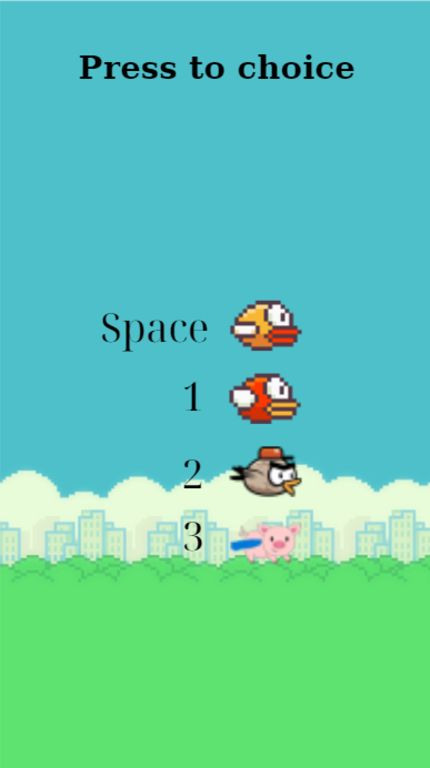
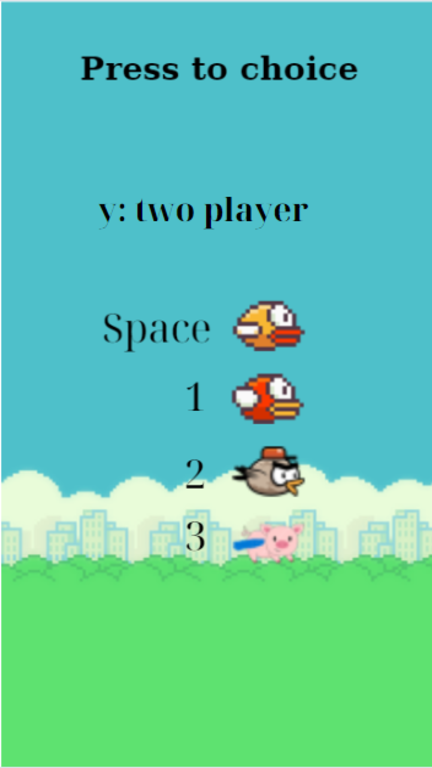
game 2 nguoi

diff --git a/game.py b/game.py
@@ -41,12 +41,13 @@ class Game:
         pygame.display.set_icon(icon)
         self.background = Background()
         self.floor = Floor()
-        self.bird = Bird(0)
+        self.bird = Bird(0, 100)
+        self.bird2 = Bird(0, 500)
         self.score = Score()
         self.pipe = Pipe()
         self.game_over_message = GameOverMessage()
         self.game_stars_message = GameStarsMessage()
-
+        self.two_player = False
     def draw_all(self):
         """
         Vẽ tất cả các phần tử trò chơi bao gồm nền, sàn, chim, điểm số và các ống.
@@ -61,26 +62,19 @@ class Game:
         self.pipe.draw()
         self.floor.draw()
         self.bird.draw()
+        if self.two_player:
+            self.bird2.draw()
         self.score.draw()
-    def check_collision(self):
-        """
-        Kiểm tra xem chim có va chạm với bất kỳ ống hoặc đất/trần nhà không.
-
-        Trả về
-        -------
-        bool
-            False nếu phát hiện va chạm, ngược lại True.
-        """
-        if self.bird.image_rect.bottom >= 668 or self.bird.image_rect.top <= -75:
+    def check_collision(self, b):
+        if b.image_rect.bottom >= 668 or b.image_rect.top <= -75:
             self.play_sound("hit.wav")
             self.play_sound("die.wav")
             return False
         for pipe in self.pipe.pipe_list:
-            if self.bird.image_rect.colliderect(pipe[0]) or self.bird.image_rect.colliderect(pipe[1]):
+            if b.image_rect.colliderect(pipe[0]) or b.image_rect.colliderect(pipe[1]):
                 self.play_sound("hit.wav")
                 self.play_sound("die.wav")
                 return False
-        return True
     
     def play_sound(self, sound):
         sound = pygame.mixer.Sound(f"sound/{sound}")
@@ -93,25 +87,33 @@ class Game:
         pygame.mixer.music.play(-1)
     def game_stars(self):
         self.game_stars_message.draw(0,0)
-        
+        if self.two_player:
+            self.game_stars_message.draw2()
 
     def game_over(self):
         """
         Vẽ thông báo game over lên màn hình.
         """
+
         self.background.draw_only()
         self.pipe.draw()
         self.floor.draw_only()
+
         
-        self.game_over_message.draw_message()
-        self.score.draw_score_over()
+        if self.two_player:
+            self.game_over_message.draw2()
+        else:
+            self.game_over_message.draw_message()
+            self.score.draw_score_over()
 
 
     def reset(self, avatar_option):
         """
         Đặt lại các thành phần trò chơi về trạng thái ban đầu để bắt đầu trò chơi mới.
         """
-        self.bird = Bird(avatar_option)
+        self.bird = Bird(avatar_option, 100)
+        if self.two_player:
+            self.bird2 = Bird(avatar_option, 500)
         self.score = Score()
         self.pipe = Pipe()
 
@@ -136,7 +138,10 @@ class Game:
                     if event.key == pygame.K_SPACE and game_play and stars:
                         self.play_sound("wing.wav")
                         self.bird.flap()
-                    
+                    if self.two_player:
+                        if event.key == pygame.K_UP and game_play and stars:
+                            self.play_sound("wing.wav")
+                            self.bird2.flap()
                     if event.key == pygame.K_RETURN and game_play == False:
                         self.reset(self.bird.avatar_option)
                         game_play = True
@@ -145,20 +150,28 @@ class Game:
                         new_score = True
                         self.play_sound("stars.mp3")
                         stars = True
+                    if event.key == pygame.K_y and stars == False:
+                        screen = pygame.display.set_mode((864, 768))
+                        self.two_player = True
                     if event.key == pygame.K_1 and stars == False:
                         self.bird.avatar_option = 1
                     if event.key == pygame.K_2 and stars == False:
                         self.bird.avatar_option = 2
                     if event.key == pygame.K_3 and stars == False:
                         self.bird.avatar_option = 3
-                if event.type == spawnpipe:
+                if event.type == spawnpipe and game_play:
                     self.pipe.pipe_list.append(self.pipe.create_pipe())
                 if event.type == birdflap:
                     if self.bird.index < 2:
                         self.bird.index += 1
                     else:
                         self.bird.index = 0
+                    if self.bird2.index < 2:
+                        self.bird2.index += 1
+                    else:
+                        self.bird2.index = 0    
                     self.bird.image, self.bird.image_rect = self.bird.animation()
+                    self.bird2.image, self.bird2.image_rect = self.bird2.animation()
             if stars and game_play:
                 
                 pygame.mixer.music.pause()
@@ -177,9 +190,12 @@ class Game:
                         self.play_sound("new_best.mp3")
                     self.score.high_score = self.score.score
                     self.score.write_high_score()
-                game_play = self.check_collision()
+                if self.check_collision(self.bird) == False:
+                    game_play = False
+                if self.two_player:
+                    if self.check_collision(self.bird2) == False:
+                        game_play = False
             elif stars and not game_play:
-                
                 pygame.mixer.music.unpause()
                 self.game_over()
             elif not stars and game_play:

diff --git a/bird.py b/bird.py
@@ -20,7 +20,7 @@ class Bird(Sprites):
         Áp dụng trọng lực để thay đổi vận tốc và vị trí của chim.
     """
     
-    def __init__(self, avatar_option):
+    def __init__(self, avatar_option, x):
         """
         Khởi tạo đối tượng chim, thiết lập hình ảnh, vị trí ban đầu và các thuộc tính chuyển động.
         """
@@ -35,18 +35,12 @@ class Bird(Sprites):
             self.images = [Sprites("uppig", True).image, Sprites("midpig", True).image, Sprites("downpig", True).image]
         self.index = 1
         self.image = self.images[self.index]
-        self.x = 100
-        self.image_rect = self.image.get_rect(center=(100, 386))
+        self.x = x
+        self.image_rect = self.image.get_rect(center=(self.x, 386))
         self.y_velocity = 0
         self.gravity = 10
         self.flap_speed = 650
         self.update_on = False
-        
-    def choice_avt(self, value):
-        if value == 1:
-            self.images = [Sprites("birddown", True).image, Sprites("birdup", True).image, Sprites("birddown", True).image]
-            self.index = 1
-            self.image = self.images[self.index]
     def rotated(self):
         new_bird = pygame.transform.rotozoom(self.image, -self.y_velocity*3, 1)
         return new_bird
@@ -61,8 +55,8 @@ class Bird(Sprites):
             Thời gian delta giữa các khung hình để đảm bảo chuyển động mượt mà.
         """
         self.applyGravity()
-        
         screen.blit(self.rotated_bird, self.image_rect)
+
     
     def flap(self):
         """
@@ -88,5 +82,5 @@ class Bird(Sprites):
         self.image_rect.y += self.y_velocity
     def animation(self):
         new_image = self.images[self.index]
-        new_image_rect = new_image.get_rect(center = (100, self.image_rect.centery))
+        new_image_rect = new_image.get_rect(center = (self.x, self.image_rect.centery))
         return new_image, new_image_rect

diff --git a/pipe.py b/pipe.py
@@ -43,8 +43,8 @@ class Pipe(Sprites):
         """
         self.pipe_high = random.randint(650, 800)
         self.space = random.randint(700, 800)
-        self.pipe_down_rect = self.pipe_up.get_rect(center=(800, self.pipe_high))
-        self.pipe_up_rect = self.pipe_down.get_rect(center=(800, self.pipe_high - self.space))
+        self.pipe_down_rect = self.pipe_up.get_rect(center=(1300, self.pipe_high))
+        self.pipe_up_rect = self.pipe_down.get_rect(center=(1300, self.pipe_high - self.space))
         return [self.pipe_down_rect, self.pipe_up_rect]
 
     def move(self):

diff --git a/gameovermessage.py b/gameovermessage.py
@@ -9,3 +9,8 @@ class GameOverMessage(Sprites):
         self.text = self.font.render(f"Press enter to try again", True, (255, 255, 255))
         self.text_rect = self.text.get_rect(center=(225, 500))
         screen.blit(self.text, self.text_rect)
+    def draw2(self):
+        self.draw(250, 200)
+        self.text = self.font.render(f"Press enter to try again", True, (255, 255, 255))
+        self.text_rect = self.text.get_rect(center=(450, 500))
+        screen.blit(self.text, self.text_rect)

diff --git a/floor.py b/floor.py
@@ -31,6 +31,8 @@ class Floor(Sprites):
             self.x = 0
         Sprites.draw(self, self.x, 600)
         Sprites.draw(self, self.x + 432, 600)
+        Sprites.draw(self, self.x + 432*2, 600)
     def draw_only(self):
         Sprites.draw(self, self.x, 600)
         Sprites.draw(self, self.x + 432, 600)
+        Sprites.draw(self, self.x + 432*2, 600)

diff --git a/background.py b/background.py
@@ -31,6 +31,7 @@ class Background(Sprites):
             self.x = 0
         Sprites.draw(self, self.x, 0)
         Sprites.draw(self, self.x + 432, 0)
+        Sprites.draw(self, self.x + 432*2, 0)
     def draw_only(self):
         Sprites.draw(self, self.x, 0)
         Sprites.draw(self, self.x + 432, 0)

diff --git a/gamestarsmessage.py b/gamestarsmessage.py
@@ -3,3 +3,8 @@ from config import *
 class GameStarsMessage(Sprites):
     def __init__(self):
         Sprites.__init__(self, "stars", False)
+        self.font = pygame.font.Font("04B_19.TTF", 30)
+    
+    def draw2(self):
+        self.image = Sprites("bg_2", False).image
+        self.draw(0, 0)
